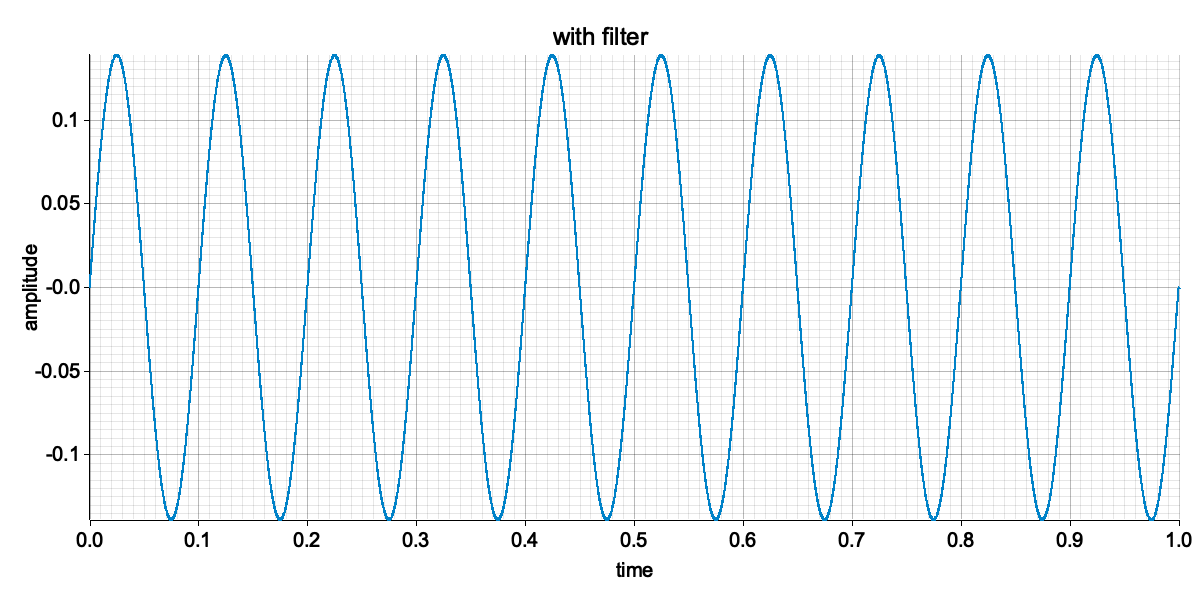
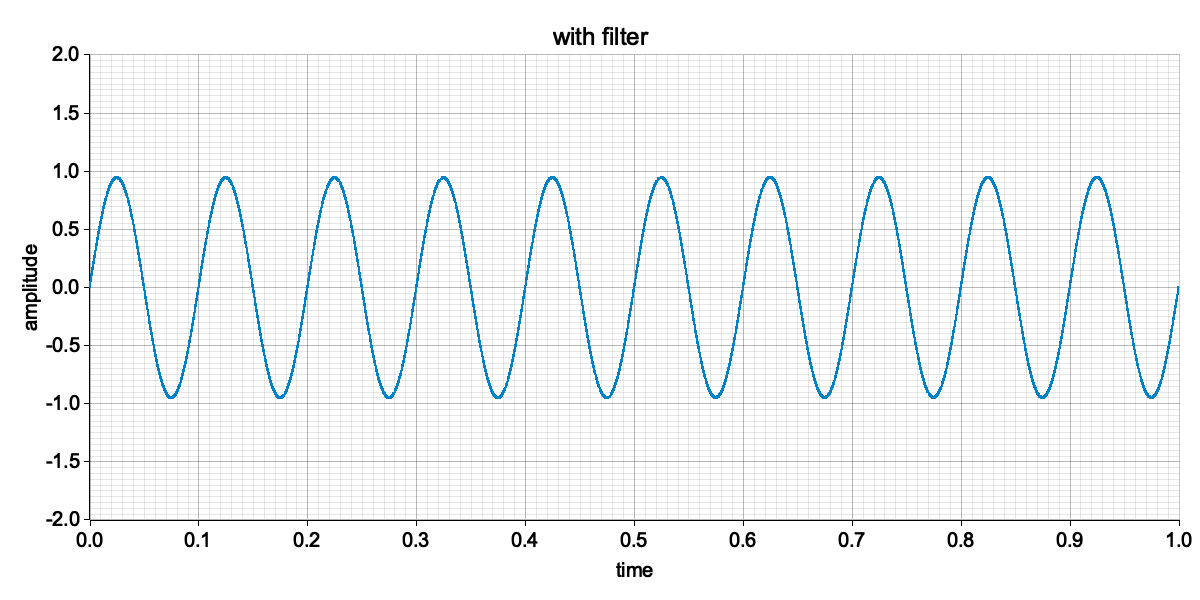
[fix] adjust cutoff frequency of the example

Changed region(s): [[0.0308, 0.06, 0.9867, 0.87]]

diff --git a/examples/butter.rs b/examples/butter.rs
@@ -23,7 +23,7 @@ fn plot(
         .margin(20)
         .x_label_area_size(60)
         .y_label_area_size(70)
-        .build_cartesian_2d(x.min()..x.max(), y.min()..y.max())?;
+        .build_cartesian_2d(x.min()..x.max(), -2.0..2.0)?;
 
     let label_font_x = ("sans-serif", 25, FontStyle::Normal).into_font();
     let label_font_y = ("sans-serif", 25, FontStyle::Normal).into_font();
@@ -52,7 +52,7 @@ fn main() {
     let f0 = 10.0;
     let f1 = 100.0;
     let sample_frequency = 32000;
-    let cutoff_frequency = 50.0;
+    let cutoff_frequency = 90.0;
     let order = 4;
     let t = DVector::from_iterator(
         sample_frequency + 1,
